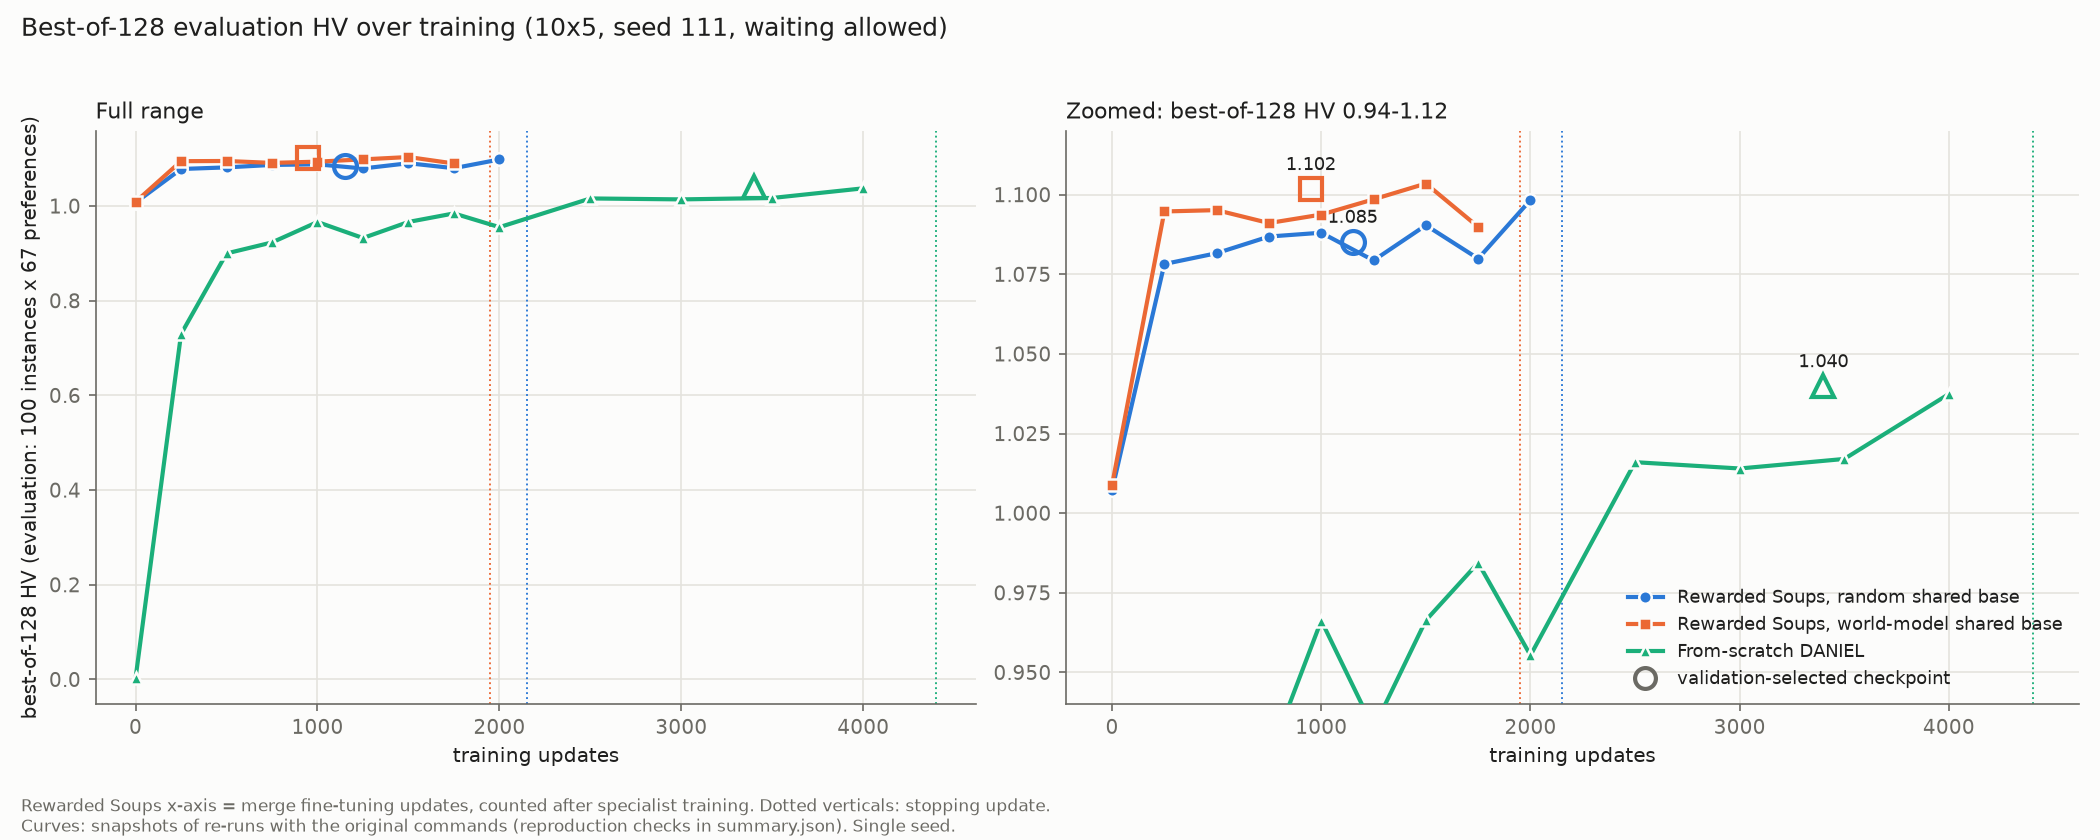
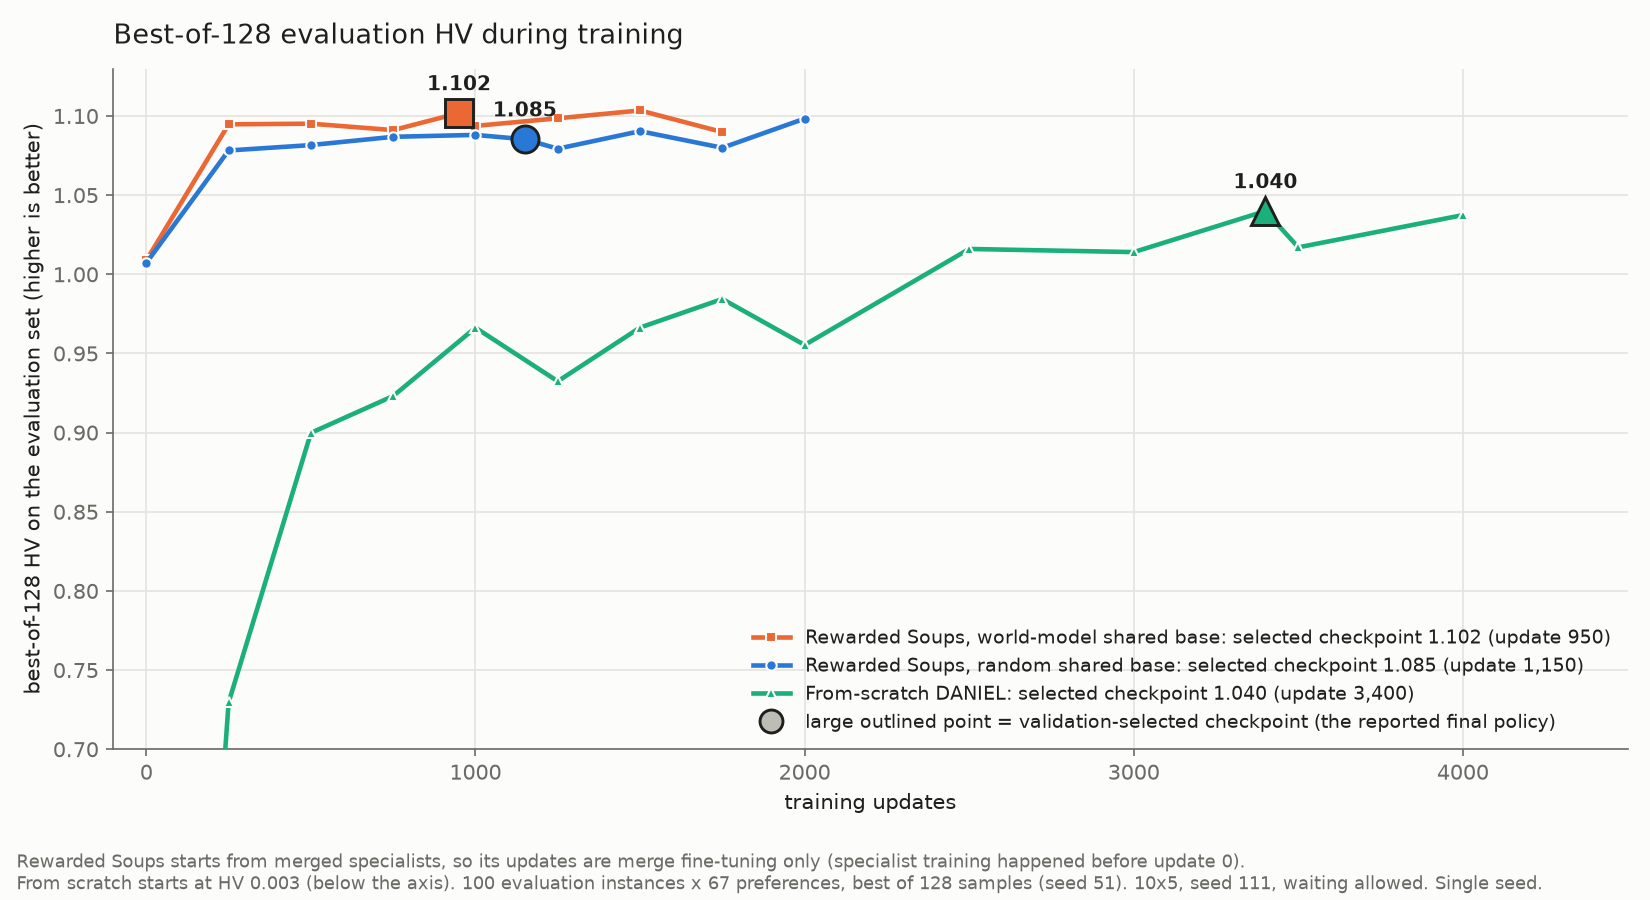
Simplify best-of-128 evaluation curve: one panel, selected checkpoints on the lines, no stop lines
Claude-Session: https://claude.ai/code/session_01Rcu6f737di34xSocjiJkEU

diff --git a/tools/eval_curve_v3.py b/tools/eval_curve_v3.py
@@ -213,42 +213,43 @@ def summarise(r):
 
 
 def plot(r, out):
+    """One panel: every evaluated snapshot on its line; the validation-selected checkpoint is the large ringed point."""
     import matplotlib
     matplotlib.use("Agg")
     import matplotlib.pyplot as plt
     INK, MUTED, GRIDC, BG = "#1f1f1e", "#6b6a64", "#e4e3de", "#fcfcfb"
-    style = {"rs_random": ("#2a78d6", "o"), "rs_world_model": ("#eb6834", "s"), "scratch": ("#1baf7a", "^")}
-    plt.rcParams.update({"font.size": 9.5, "axes.edgecolor": MUTED, "xtick.color": MUTED, "ytick.color": MUTED,
+    style = {"rs_world_model": ("#eb6834", "s"), "rs_random": ("#2a78d6", "o"), "scratch": ("#1baf7a", "^")}
+    plt.rcParams.update({"font.size": 10, "axes.edgecolor": MUTED, "xtick.color": MUTED, "ytick.color": MUTED,
                          "text.color": INK, "axes.labelcolor": INK})
-    fig, axs = plt.subplots(1, 2, figsize=(14, 5.6), facecolor=BG, gridspec_kw={"width_ratios": [1, 1.15]})
-    for k, ax in enumerate(axs):
-        ax.set_facecolor(BG)
-        for run, d in out["runs"].items():
-            col, mk = style[run]
-            grid_pts = [p for p in d["points"] if p["update"] in GRID]
-            x = [p["update"] for p in grid_pts]; y = [p["best_of_128_hv"] for p in grid_pts]
-            ax.plot(x, y, color=col, lw=2, marker=mk, ms=6, mec=BG, mew=1.2, zorder=3, label=d["label"])
-            ax.axvline(d["rerun"]["stop_update"], color=col, lw=.9, ls=":", zorder=1)
-            bu = d["original"]["best_update"]; ob = d["original"]["best_of_128_hv_selected"]
-            ax.plot(bu, ob, marker=mk, ms=11, mfc="none", mec=col, mew=2, zorder=4)
-            if k == 1:
-                ax.annotate(f"{ob:.3f}", (bu, ob), xytext=(0, 9), textcoords="offset points", ha="center", fontsize=8.5)
-        ax.set_xlabel("training updates")
-        ax.grid(color=GRIDC, lw=.8); ax.set_axisbelow(True)
-        for s_ in ("top", "right"):
-            ax.spines[s_].set_visible(False)
-    axs[0].set_ylabel("best-of-128 HV (evaluation: 100 instances x 67 preferences)")
-    axs[0].set_title("Full range", fontsize=10.5, loc="left")
-    axs[1].set_title("Zoomed: best-of-128 HV 0.94-1.12", fontsize=10.5, loc="left")
-    axs[1].set_ylim(0.94, 1.12)
-    axs[1].plot([], [], marker="o", ms=10, mfc="none", mec=MUTED, mew=2, ls="none",
-                label="validation-selected checkpoint")
-    axs[1].legend(frameon=False, loc="lower right", fontsize=8.5)
-    fig.suptitle("Best-of-128 evaluation HV over training (10x5, seed 111, waiting allowed)", fontsize=12, x=0.01, ha="left")
-    fig.text(0.01, 0.01, "Rewarded Soups x-axis = merge fine-tuning updates, counted after specialist training. "
-                         "Dotted verticals: stopping update.\nCurves: snapshots of re-runs with the original commands "
-                         "(reproduction checks in summary.json). Single seed.", fontsize=8, color=MUTED)
-    fig.tight_layout(rect=(0, 0.06, 1, 0.96))
+    fig, ax = plt.subplots(figsize=(11, 6), facecolor=BG)
+    ax.set_facecolor(BG)
+    for run in style:
+        d = out["runs"][run]
+        col, mk = style[run]
+        pts = sorted(d["points"], key=lambda p: p["update"])
+        x = [p["update"] for p in pts]; y = [p["best_of_128_hv"] for p in pts]
+        bu = d["original"]["best_update"]; bv = next(p["best_of_128_hv"] for p in pts if p["update"] == bu)
+        ax.plot(x, y, color=col, lw=2.2, marker=mk, ms=5, mec=BG, mew=1, zorder=3,
+                label=f"{d['label']}: selected checkpoint {bv:.3f} (update {bu:,})")
+        ax.plot(bu, bv, marker=mk, ms=13, color=col, mec=INK, mew=1.4, zorder=5)
+        ax.annotate(f"{bv:.3f}", (bu, bv), xytext=(0, 11), textcoords="offset points", ha="center",
+                    fontsize=9.5, fontweight="bold", color=INK, zorder=6)
+    ax.plot([], [], marker="o", ms=11, color="#bdbcb5", mec=INK, mew=1.4, ls="none",
+            label="large outlined point = validation-selected checkpoint (the reported final policy)")
+    ax.set_ylim(0.70, 1.13)
+    ax.set_xlim(-100, 4500)
+    ax.set_xlabel("training updates")
+    ax.set_ylabel("best-of-128 HV on the evaluation set (higher is better)")
+    ax.set_title("Best-of-128 evaluation HV during training", fontsize=13, loc="left", pad=12)
+    ax.grid(color=GRIDC, lw=.8); ax.set_axisbelow(True)
+    for s_ in ("top", "right"):
+        ax.spines[s_].set_visible(False)
+    ax.legend(frameon=False, loc="lower right", fontsize=9)
+    fig.text(0.01, 0.012, "Rewarded Soups starts from merged specialists, so its updates are merge fine-tuning only "
+                          "(specialist training happened before update 0).\nFrom scratch starts at HV 0.003 (below the "
+                          "axis). 100 evaluation instances x 67 preferences, best of 128 samples (seed 51). "
+                          "10x5, seed 111, waiting allowed. Single seed.", fontsize=8.5, color=MUTED)
+    fig.tight_layout(rect=(0, 0.07, 1, 1))
     fig.savefig(r.res / "best_of_128_curve.png", dpi=150, facecolor=BG); plt.close(fig)
 
 
